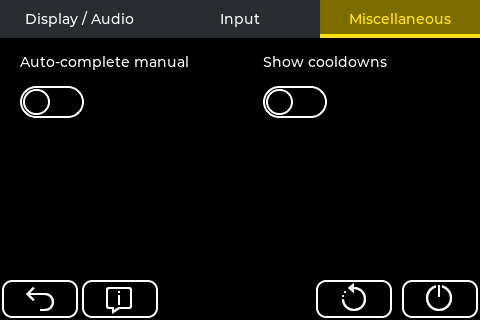
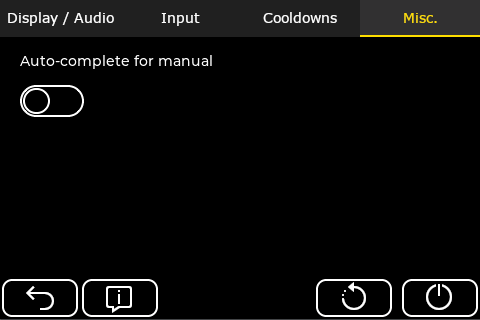
Update README and screens

diff --git a/README.md b/README.md
@@ -57,6 +57,8 @@ If you enjoy the project and want to support our private work feel free to make 
 
 ![](screens/config_input.png)
 
+![](screens/config_cooldowns.png)
+
 ![](screens/config_miscellaneous.png)
 
 ### Game (example configuration)
